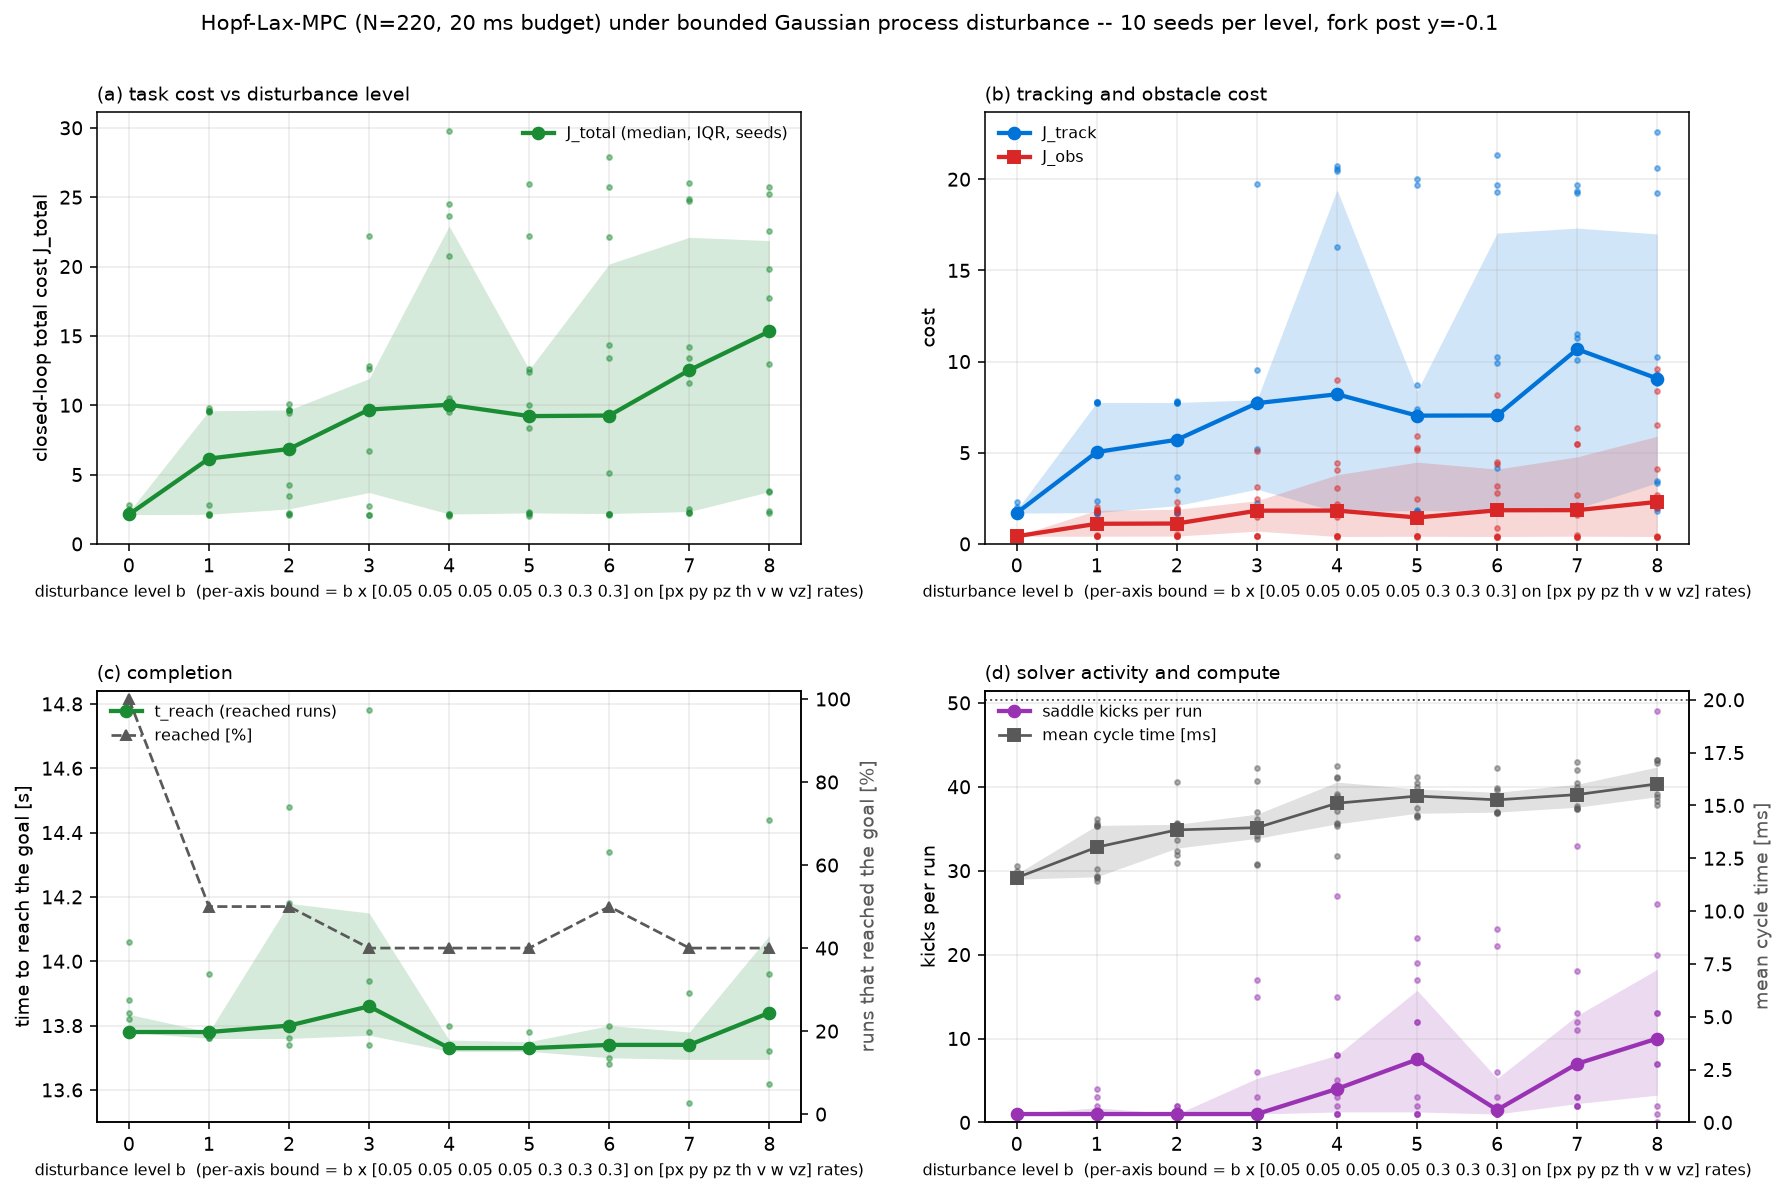
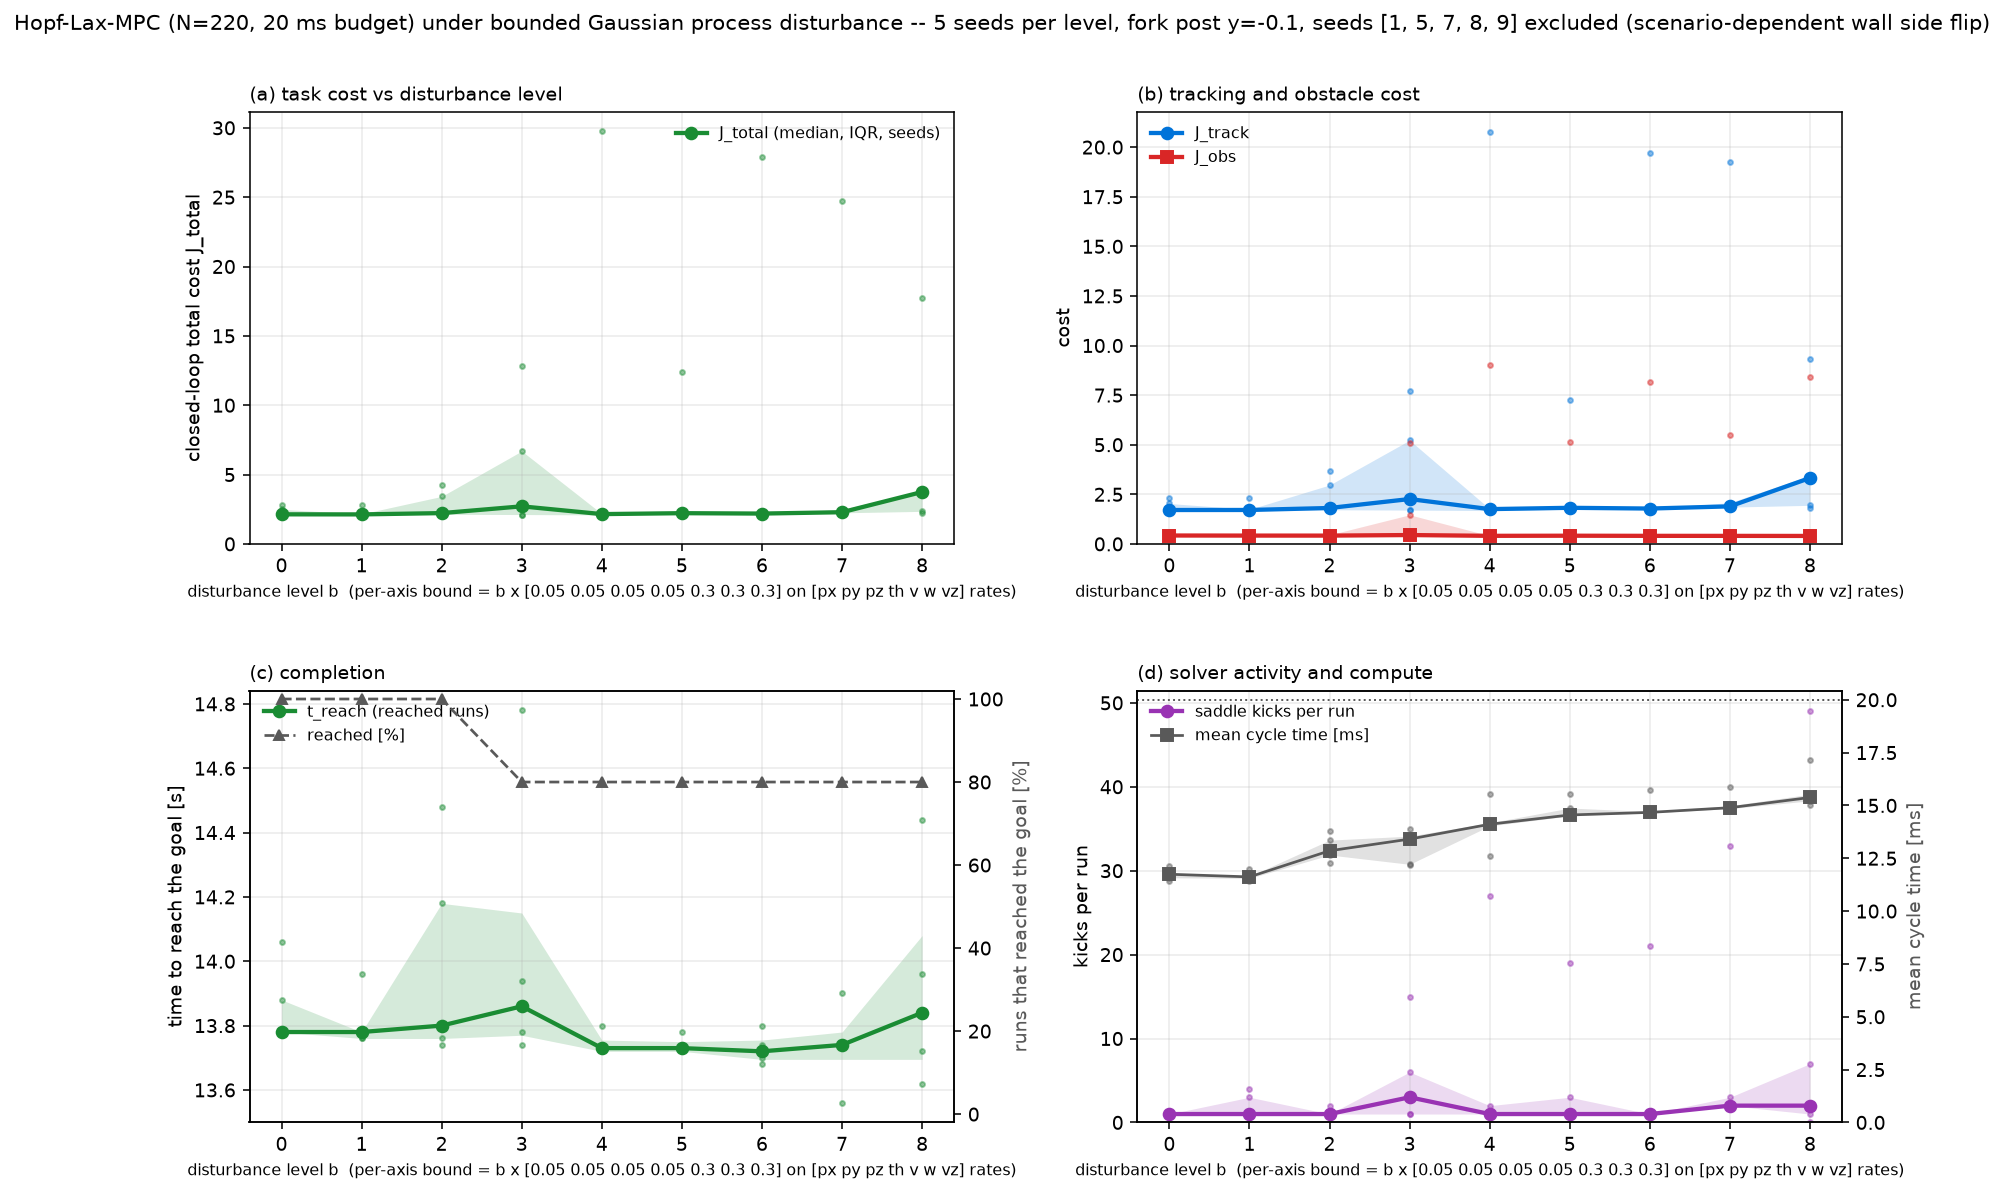
Disturbance sweep: exclude the scenario-dependent wall-flip seeds (1,5,7,8,9); distance-to-goal column

diff --git a/plot_disturb.py b/plot_disturb.py
@@ -43,11 +43,13 @@ def main():
     ap.add_argument("--post-y", type=float, default=-0.1)
     ap.add_argument("--out", default="figs/disturb_sweep.png")
     ap.add_argument("--bs", default=None, help="comma-separated b levels to plot (default: all in the pickle)")
+    ap.add_argument("--exclude-seeds", default="", help="comma-separated seeds to drop (scenario-dependent failures)")
     args = ap.parse_args()
     with open(args.pkl, "rb") as f:
         runs = pickle.load(f)["runs"]
+    excl = {int(v) for v in args.exclude_seeds.split(",") if v.strip()}
     sel = {k: e for k, e in runs.items()
-           if len(k) == 4 and k[0] == args.scale and abs(k[1] - args.post_y) < 1e-9}
+           if len(k) == 4 and k[0] == args.scale and abs(k[1] - args.post_y) < 1e-9 and k[3] not in excl}
     bs = sorted({k[2] for k in sel})
     if args.bs:
         want = [float(v) for v in args.bs.split(",")]
@@ -60,10 +62,12 @@ def main():
     # ---- table ----
     print(f"scene: scale={args.scale} s={np.round(s, 3)}, fork post y={args.post_y:g}, N={e0['N']}, "
           f"budget {1e3 * e0['meta']['budget']:.0f} ms;  per-axis bound = b * s, sigma = {e0['sigma_ratio']:g} * bound")
+    if excl:
+        print(f"excluded seeds: {sorted(excl)}")
     print(f"{'b':>4} {'n':>3} {'reached':>8} {'t_reach med':>11} {'J_total med':>11} {'[q1, q3]':>16} {'max':>8} "
           f"{'J_track med':>11} {'J_obs med':>10} {'J_obs max':>10} {'clips':>6} {'kicks med':>9} {'kicks max':>9} "
-          f"{'ms mean':>8} {'p99 ms':>7} {'it/cyc':>7}")
-    print("-" * 160)
+          f"{'ms mean':>8} {'p99 ms':>7} {'it/cyc':>7} {'x_end (not reached)':>20}")
+    print("-" * 182)
     for b in bs:
         E = by_b[b]
         J = np.array([e["Jtrue"] for e in E]); Jt = np.array([e["Jreal"] for e in E]); Jo = np.array([e["Jpen"] for e in E])
@@ -72,10 +76,12 @@ def main():
         kk = np.array([int(np.sum(e["nkick"])) for e in E])
         ms = np.array([e["ms_mean"] for e in E]); p99 = np.array([e["ms_p99"] for e in E])
         it = np.array([np.mean(e["iters"]) for e in E])
+        xend = [e["X"][0, -1] for e in E if not e["reached"]]
+        xtxt = ("" if not xend else " ".join(f"{v:.1f}" for v in sorted(xend)))
         print(f"{b:>4g} {len(E):>3} {rc.mean() * 100:>7.0f}% {(np.median(tr) if tr.size else np.nan):>11.2f} "
               f"{np.median(J):>11.3f} [{np.percentile(J, 25):>6.2f}, {np.percentile(J, 75):>6.2f}] {J.max():>8.2f} "
               f"{np.median(Jt):>11.3f} {np.median(Jo):>10.3f} {Jo.max():>10.2f} {int(np.sum(Jo > 5)):>6} "
-              f"{np.median(kk):>9.0f} {kk.max():>9} {ms.mean():>8.2f} {p99.mean():>7.1f} {it.mean():>7.2f}")
+              f"{np.median(kk):>9.0f} {kk.max():>9} {ms.mean():>8.2f} {p99.mean():>7.1f} {it.mean():>7.2f} {xtxt:>20}")
     print("clips = runs with J_obs > 5 (an obstacle shell was entered); band in the figure = inter-quartile range")
 
     # ---- figure ----
@@ -113,7 +119,8 @@ def main():
     for ax in (a, bx):
         ax.legend(frameon=False, fontsize=8)
     fig.suptitle(f"Hopf-Lax-MPC (N={e0['N']}, 20 ms budget) under bounded Gaussian process disturbance -- "
-                 f"{max(nseed.values())} seeds per level, fork post y={args.post_y:g}", fontsize=11)
+                 f"{max(nseed.values())} seeds per level, fork post y={args.post_y:g}"
+                 + (f", seeds {sorted(excl)} excluded (scenario-dependent wall side flip)" if excl else ""), fontsize=11)
     fig.savefig(args.out, bbox_inches="tight")
     print(f"saved {args.out}")
 
